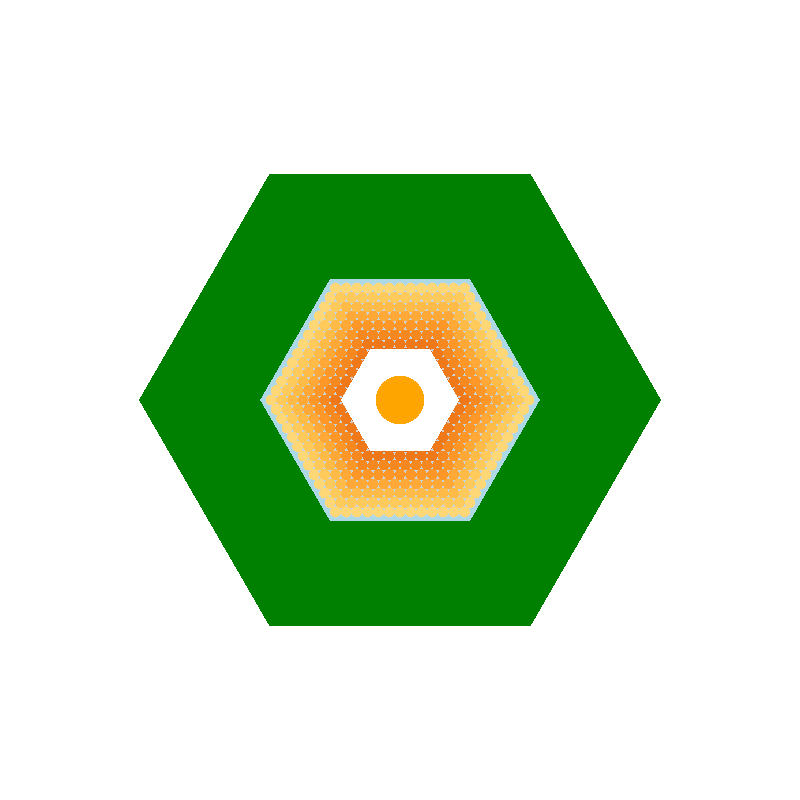
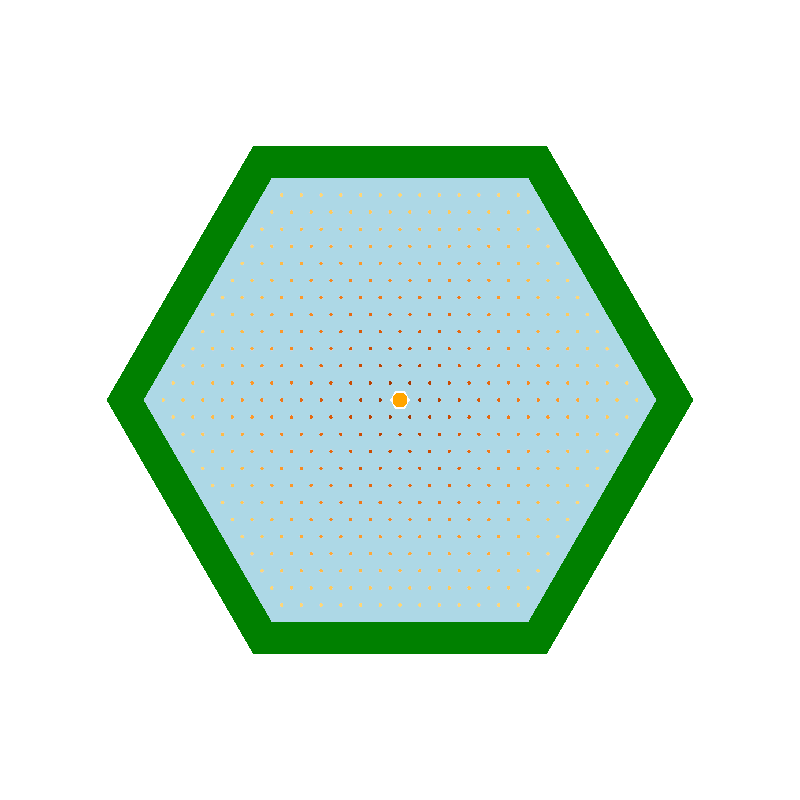
.

diff --git a/Open MC/Programmi_nel_tempo.py b/Open MC/Programmi_nel_tempo.py
@@ -1,37 +1,23 @@
-import subprocess
+#import subprocess
 
-print("Inizio esecuzione sequenziale...")
+#print("Inizio esecuzione sequenziale...")
+#
+#print("Esecuzione di circolarita_k_max.py in reattore_8 a <= 50PCM...")
+#subprocess.run(["python", "circolarita_k_max.py"], cwd="reattore_8/50PCM/circolarita_k_max", check=True)
+#
+#print("Esecuzione di run_pot.py in reattore_8 a <= 50PCM...")
+#subprocess.run(["python", "run_pot.py"], cwd="reattore_8/50PCM", check=True)
+#
+#print("Tutte le simulazioni sono terminate con successo.")
 
-print("Esecuzione di circolarita_k_max.py in reattore_8 a <= 50PCM...")
-subprocess.run(["python", "circolarita_k_max.py"], cwd="reattore_8/50PCM/circolarita_k_max", check=True)
-
-print("Esecuzione di run_pot.py in reattore_8 a <= 50PCM...")
-subprocess.run(["python", "run_pot.py"], cwd="reattore_8/50PCM", check=True)
-
-print("Tutte le simulazioni sono terminate con successo.")
-
-'''
 import subprocess
 import time
 
-attesa_secondi = 24 * 3600  # 50 ore in secondi
+attesa_secondi =  3600  # 50 ore in secondi
+print("Attesa di 24 ore...")
+time.sleep(attesa_secondi)
 
 print("Avvio run_pot.py in reattore_8...")
 # Popen avvia il processo in background permettendo allo script di proseguire con il timer
-subprocess.Popen(["python", "run_pot.py"], cwd="reattore_8")
+subprocess.Popen(["python", "arricchimenti_VS_pitch.py"], cwd="reattore_9")
 
-print("Attesa di 24 ore...")
-time.sleep(attesa_secondi)
-
-print("Avvio run_max.py in reattore_8...")
-subprocess.Popen(["python", "run_max.py"], cwd="reattore_8")
-
-print("Attesa di 24 ore...")
-time.sleep(attesa_secondi)
-
-print("Avvio auto.py in reattore_9...")
-subprocess.Popen(["python", "auto.py"], cwd="reattore_9")
-
-print("Tutti i processi di avvio sono stati schedulati.")
-
-'''

diff --git a/Open MC/reattore_9/arricchimenti_VS_pitch.py b/Open MC/reattore_9/arricchimenti_VS_pitch.py
@@ -58,8 +58,8 @@ warnings.filterwarnings("ignore", category=UserWarning, module="papermill")
 # FASE 1: RICERCA ARRICCHIMENTO (SURROGATE MODELING - PCHIP)
 # ==========================================
 
-list_i = [0.375, 0.25]  
-a_m = 0.5        
+list_i = [1.5,2,2.5,1]  
+a_m = 0.2        
 w = 0.15          
 
 notebook_auto = 'auto/auto.ipynb'
